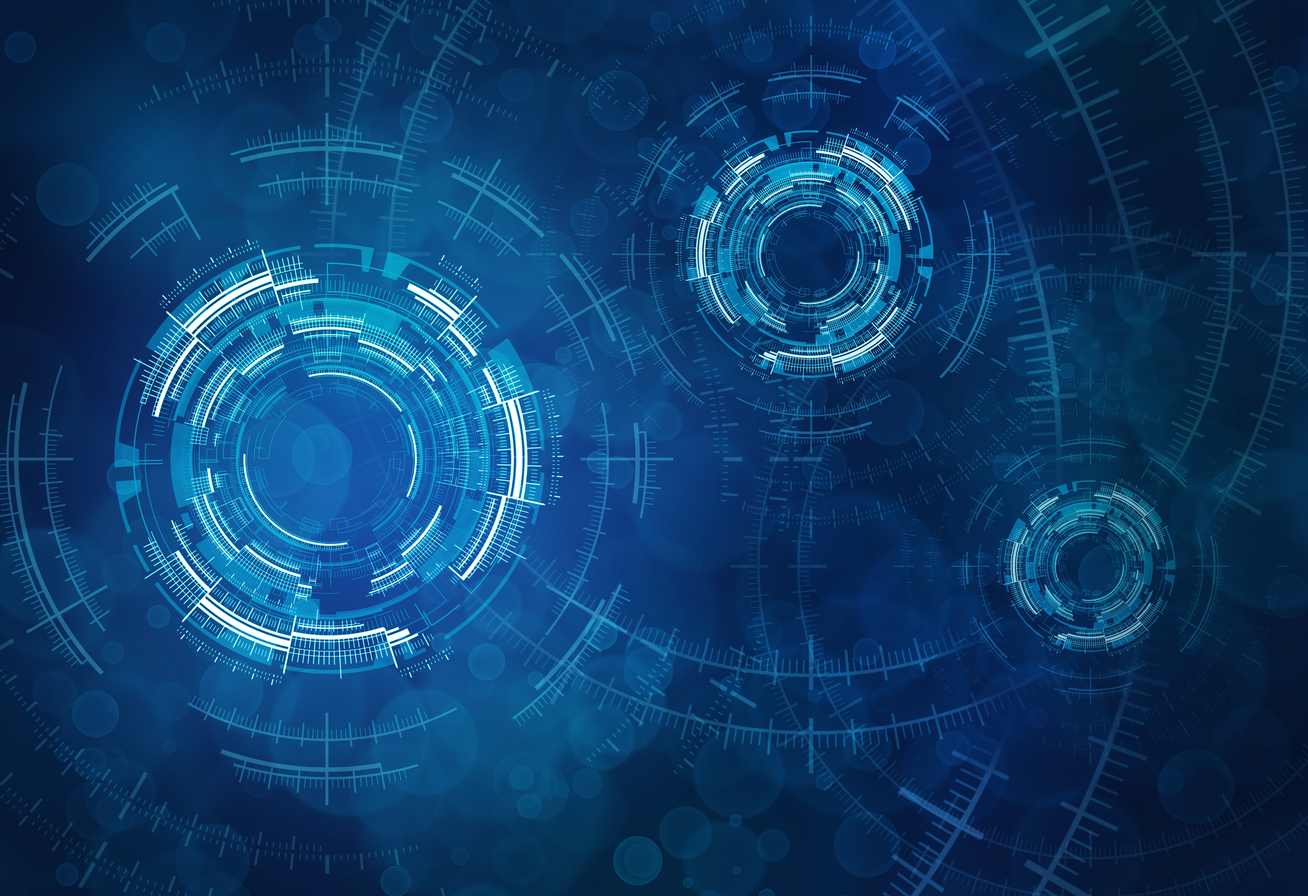
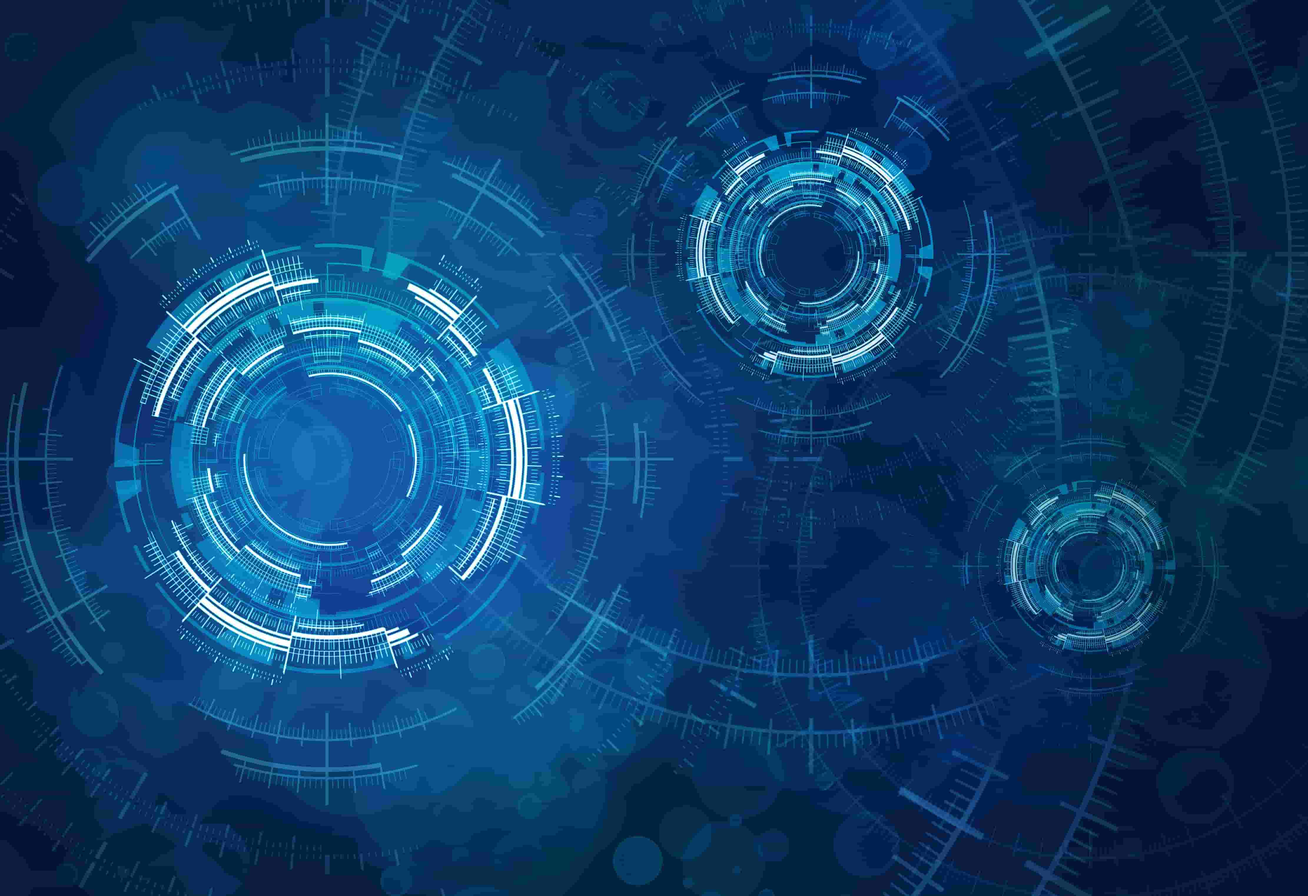
Image optimization

diff --git a/index.html b/index.html
@@ -15,7 +15,7 @@
         <div class="hero container">
             <div>
                 <h1>Olá<span></span></h1>
-                <h1>Menu nome é<span></span></h1>
+                <h1>Eu sou<span></span></h1>
                 <h1>Weberty Silveira<span></span></h1>
                 <a href="#" type="button" class="cta">ver Portfolio</a>
             </div>
